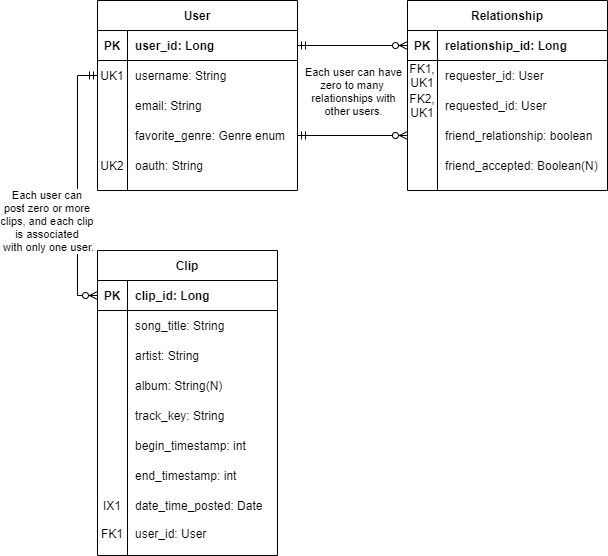
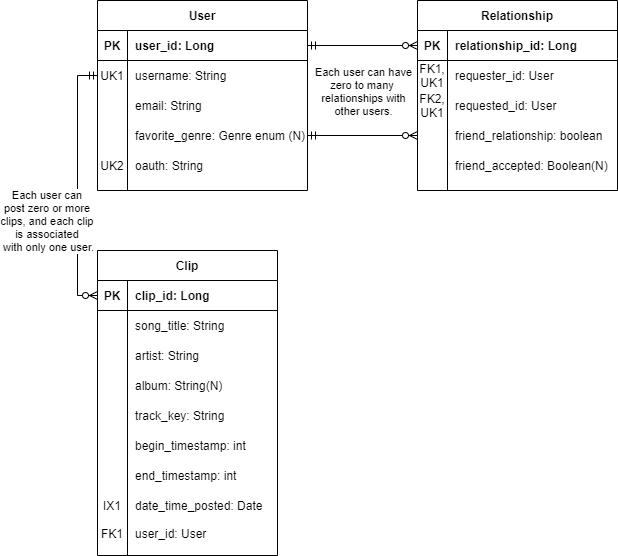
Updated endpoints and ERD.

Changed region(s): [[0.0, 0.0, 0.9688, 1.0], [0.2812, 0.4586, 0.3438, 0.4892]]

diff --git a/docs/endpoints.md b/docs/endpoints.md
@@ -279,7 +279,35 @@ Deletes a clip posted by the current user
 * Response status
 
     * `200 OK`
-        
+
+### `GET /relationships/{relationshipId}`
+ 
+* Description
+ 
+Gets a selected relationship
+ 
+* Path parameters
+ 
+`relationshipId` (relationship identifier)
+ 
+* Query parameters
+ 
+(None)
+ 
+* Request body
+ 
+(None)
+ 
+* Response body
+ 
+`Relationship`
+ 
+* Response status
+ 
+   * `200 OK`
+
+   * `404 Not Found`
+         
 ### `GET /relationships/friendships`
 
 * Description
